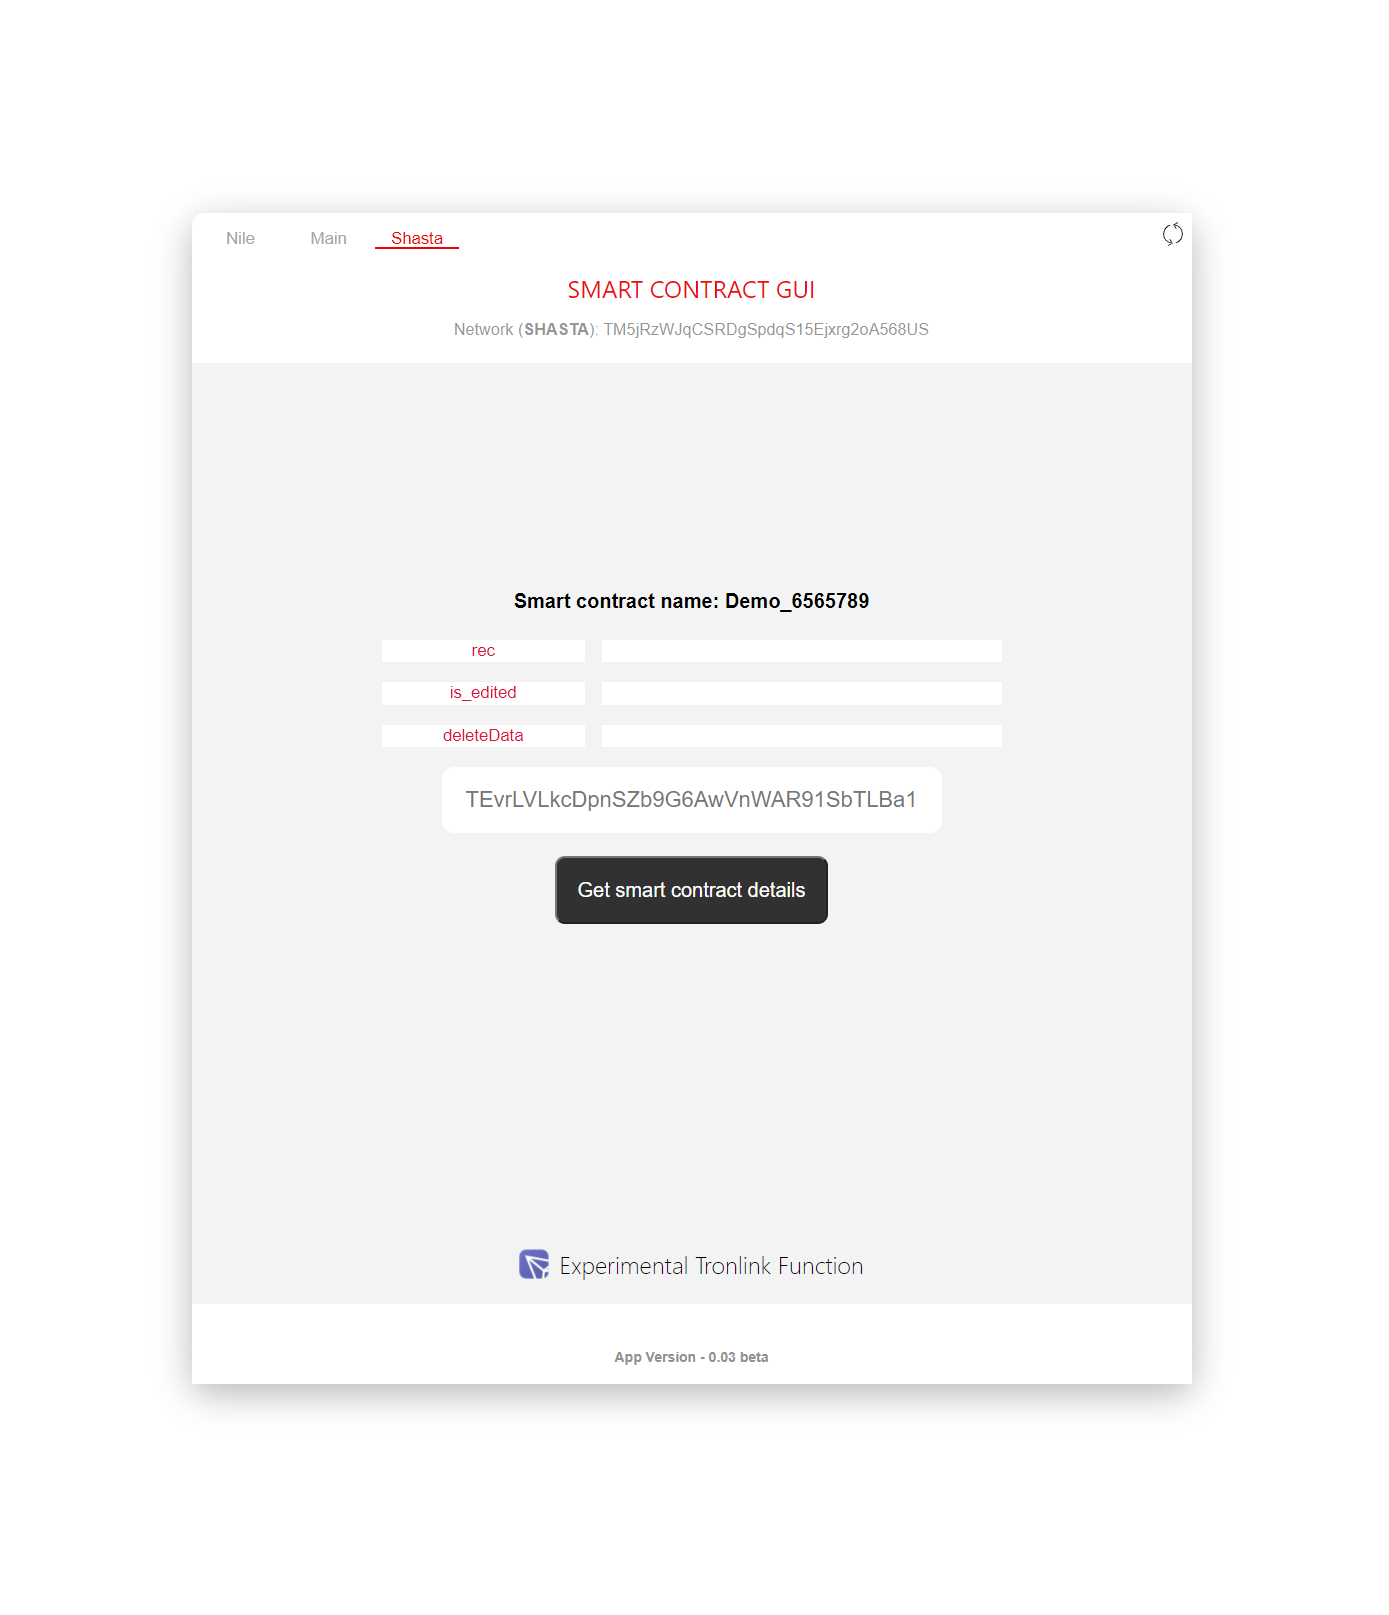
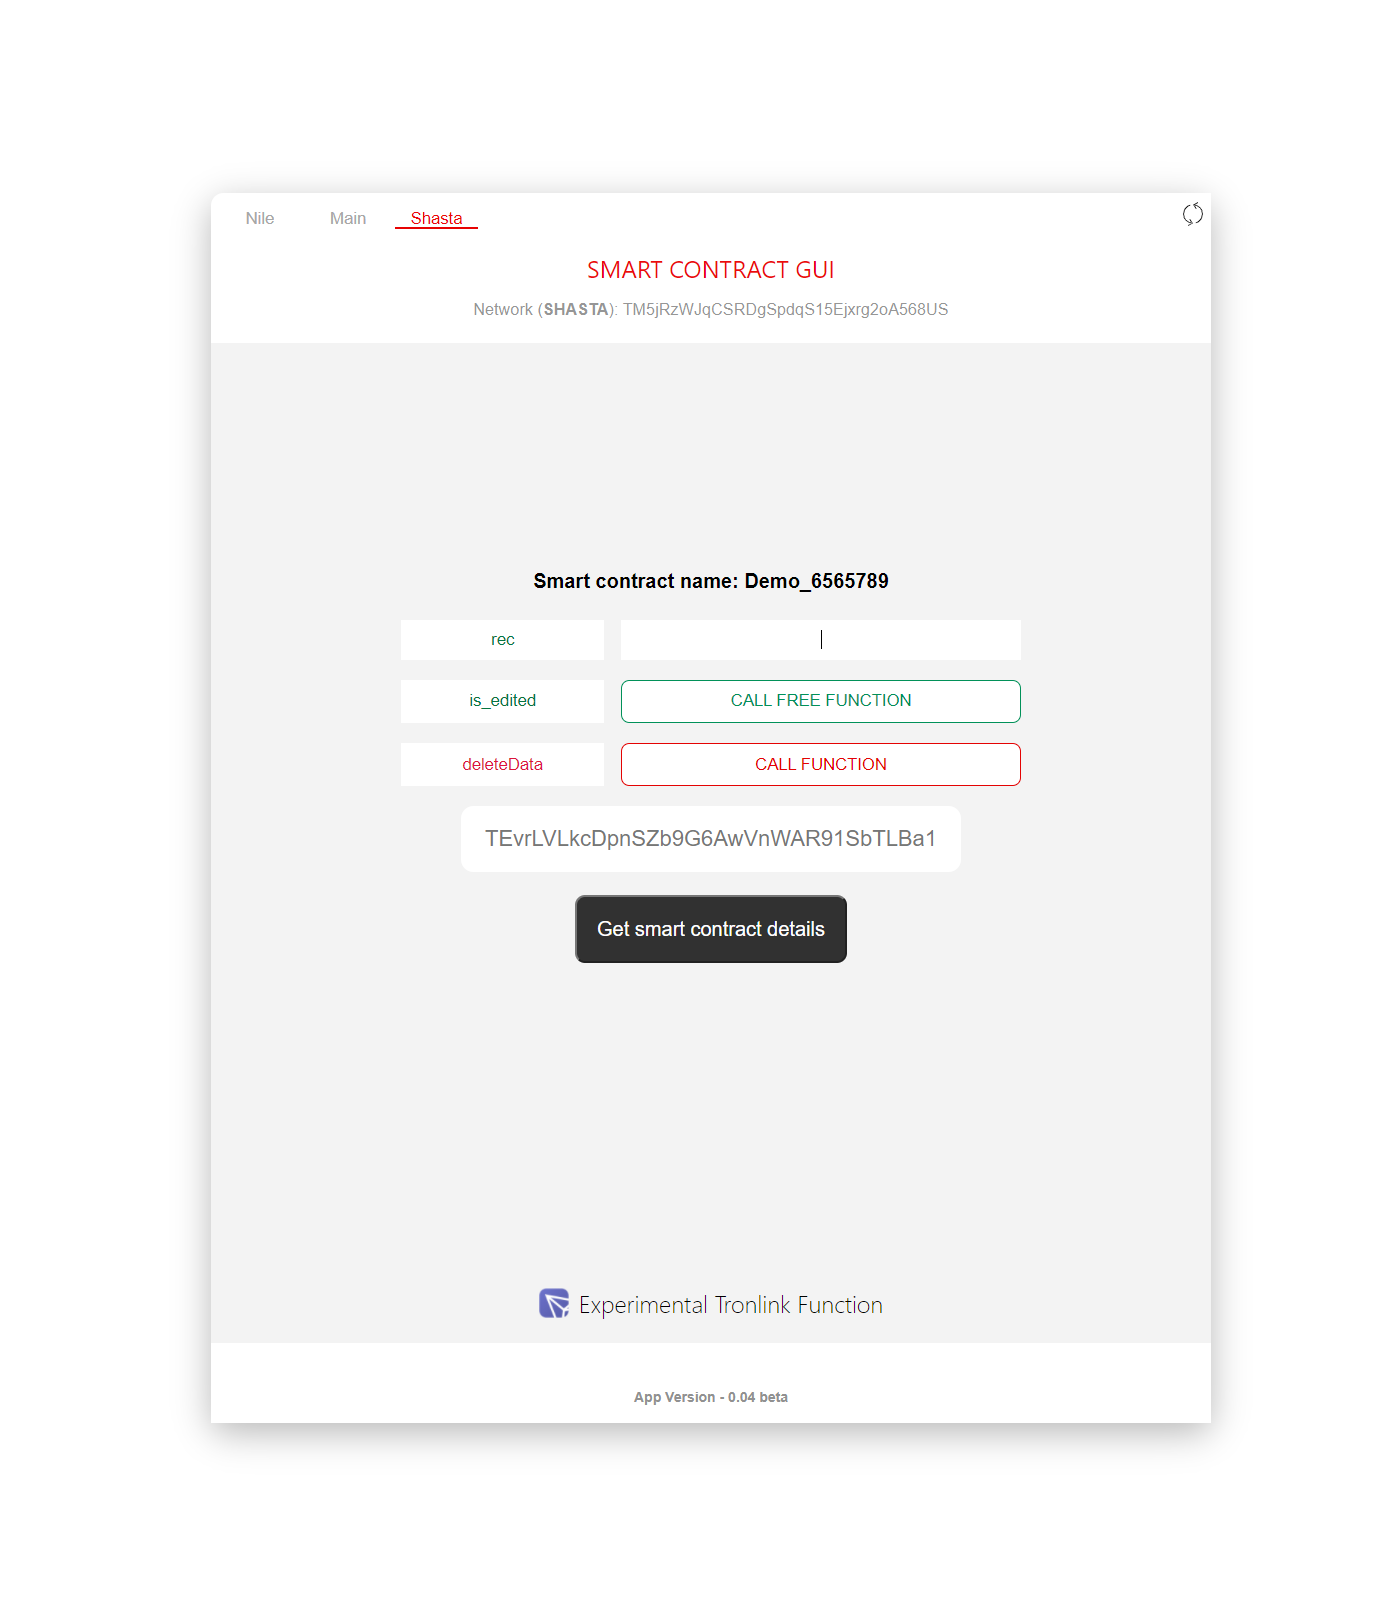
update to v0.04 beta

diff --git a/src/components/Card.js b/src/components/Card.js
@@ -33,8 +33,13 @@ const Card = () => {
   const tronWeb = new TronWeb(fullNode, solidityNode, eventServer, privateKey);
 
   useEffect(() => {
-    fetchAddressfromTronlink();
-  });
+    //connecting to ethereum blockchain
+    const ethEnabled = async () => {
+      fetchAddressfromTronlink();
+    };
+
+    ethEnabled();
+  }, []);
 
   const changeNetworkHandler = (net) => {
     if (net === 'SHASTA') {
@@ -76,7 +81,10 @@ const Card = () => {
       let contract = await tronWeb.trx.getContract(contrAdrress);
       let result = await contract.name;
       setcontractName(result);
+      console.log(result);
       setFetchedFuncs(contract.abi.entrys);
+      console.log(contract.abi.entrys);
+
     } catch (error) {
       console.error('trigger smart contract error', error);
       setcontractName(error);
@@ -88,7 +96,7 @@ const Card = () => {
     setcontrAdrress(event.target.value);
   };
 
-  const doSomething = async () => {
+  const tronlinkTest = async () => {
     var tronweb = window.tronWeb;
     const tx = await tronweb.transactionBuilder.sendTrx(
       'TGupi94VaCpm9DaTvne6WaytYbTLA69m5Y',
@@ -98,44 +106,6 @@ const Card = () => {
     const signedTx = await tronweb.trx.sign(tx);
     const broastTx = await tronweb.trx.sendRawTransaction(signedTx);
     console.log(broastTx);
-  };
-
-  const sendTokens = async () => {
-    const privateKey = 'XXX';
-
-    const addressList = [
-      { userAdr: 'TGupi94VaCpm9DaTvne6WaytYbTLA69m5Y', userAmount: 1000000 },
-    ];
-    const timInterval = 2;
-
-    // var toAddress = 'TGupi94VaCpm9DaTvne6WaytYbTLA69m5Y'; //address _to
-    // var amount = 10000000; //amount 10,000000 = 10 TRX
-
-    //Creates an unsigned TRX transfer transaction
-    console.log('Loading..');
-    const promises = addressList.map(
-      (address, i) =>
-        new Promise((resolve) =>
-          setTimeout(async () => {
-            const tradeobj = await tronWeb.transactionBuilder.sendTrx(
-              address.userAdr,
-              address.userAmount,
-              myAddress
-            );
-            const signedtxn = await tronWeb.trx.sign(tradeobj, privateKey);
-            const receipt = await tronWeb.trx.sendRawTransaction(signedtxn);
-            console.log('- Output:', receipt, '\n');
-
-            console.log(
-              'address:' + address.userAdr,
-              'amount to send: ' + address.userAmount + ' TRX'
-            );
-
-            resolve();
-          }, timInterval * 1000 * addressList.length - timInterval * 1000 * i)
-        )
-    );
-    Promise.all(promises).then(() => console.log('all done'));
   };
 
   return (
@@ -165,6 +135,8 @@ const Card = () => {
                 id={func.id}
                 key={Math.random()}
                 stateMutability={func.stateMutability}
+                type={func.type}
+                inputs={func.inputs}
               />
             ))}
           </div>
@@ -180,16 +152,12 @@ const Card = () => {
           <button onClick={getContractName} className={classes.contrctButton}>
             Get smart contract details
           </button>
-          <div>
-            <button onClick={sendTokens} className={classes.contrctButton2}>
-              SendToken without tronlink
-            </button>
-          </div>
-          <TronlinkFunctions clicked={doSomething} />
+          <div></div>
+          <TronlinkFunctions clicked={tronlinkTest} />
         </div>
 
         <div className={classes.foot}>
-          <h4>App Version - 0.03 beta</h4>
+          <h4>App Version - 0.04 beta</h4>
         </div>
       </div>
     </div>

diff --git a/src/components/ContractExtracted.module.css b/src/components/ContractExtracted.module.css
@@ -2,32 +2,68 @@
   /* background-color: aquamarine; */
   /* display: flex; */
 
-    /* justify-content:  space-evenly ; */
+  /* justify-content:  space-evenly ; */
 
-    text-align: left;
-  
-  
+  text-align: left;
 }
 .listGrid {
-  
-display: grid;
-grid-template-columns: 7em 11em 20em 5em auto;
+  display: grid;
+  grid-template-columns: 7em 11em 20em 5em auto;
 }
-
 
 .functionLabel {
-  /* margin-right: 5em; */
-/* text-align: right; */
-margin-right: 1em;
-grid-column-start: 2;
-border: none;
-background-color: white;
-color: crimson;
+  margin-right: 1em;
+  grid-column-start: 2;
+  border: none;
+  background-color: white;
+  color: crimson;
+}
 
+.nonfunctionLabel {
+  margin-right: 1em;
+  grid-column-start: 2;
+  border: none;
+  background-color: white;
+  color: rgb(5, 117, 65);
+}
+
+.functionInput {
+  border: none;
+  padding: 0.6em;
+  text-align: center;
+  
+}
+.functionInput:focus {
+ outline: none;
 }
 
 
-.functionInput {
-   
-    border: none;
+.functionCallBtn {
+  border: rgb(1, 145, 89) 0.1em solid;
+  background-color: rgb(255, 255, 255);
+  border-radius: 0.5em;
+  color: rgb(1, 145, 89);
+  padding: 0.6em;
+}
+
+.functionCallBtn:hover {
+  border: rgb(255, 255, 255) 0.1em solid;
+  background-color: rgb(1, 145, 89);
+  cursor: pointer;
+  color: white;
+}
+
+.freeFunctionCallBtn {
+  border: rgb(228, 3, 3) 0.1em solid;
+  background-color: rgb(255, 255, 255);
+  border-radius: 0.5em;
+  color: rgb(228, 3, 3);
+  padding: 0.6em;
+}
+
+.freeFunctionCallBtn:hover {
+  border: rgb(255, 255, 255) 0.1em solid;
+  background-color: rgb(228, 3, 3);
+  cursor: pointer;
+  color: white;
 }

diff --git a/src/components/ContractExtracted.js b/src/components/ContractExtracted.js
@@ -2,13 +2,46 @@ import React from 'react';
 import classes from './ContractExtracted.module.css';
 
 const ContractExtracted = (props) => {
+  console.log(props.type);
+  const functionBtnClicked = () => {
+    console.log('boo');
+  };
+
+  let editableFunction = <p>Unknow Type</p>;
+
+  if (props.stateMutability === 'View') {
+    editableFunction = (
+      <button className={classes.functionCallBtn}>CALL FREE FUNCTION</button>
+    );
+    if (props.inputs) {
+      editableFunction = (
+        <input
+          type="text"
+          className={classes.functionInput}
+        ></input>
+      );
+    }
+  } else {
+    editableFunction = (
+      <button className={classes.freeFunctionCallBtn} onClick={functionBtnClicked}>
+        CALL FUNCTION
+      </button>
+    );
+  }
+
   return (
     <div className={classes.functionItems}>
       <ul className={classes.listGrid}>
-          
-        <button className={classes.functionLabel}>{props.functionName}</button>
-        <input type="text" className={classes.functionInput}></input>
-     
+        <button
+          className={
+            props.stateMutability === 'View'
+              ? classes.nonfunctionLabel
+              : classes.functionLabel
+          }
+        >
+          {props.functionName}
+        </button>
+        {editableFunction}
       </ul>
     </div>
   );

diff --git a/src/components/Card.module.css b/src/components/Card.module.css
@@ -93,7 +93,7 @@
 }
 
 .inputField:focus {
-  outline: none !important;
+  outline: none;
 }
 
 
